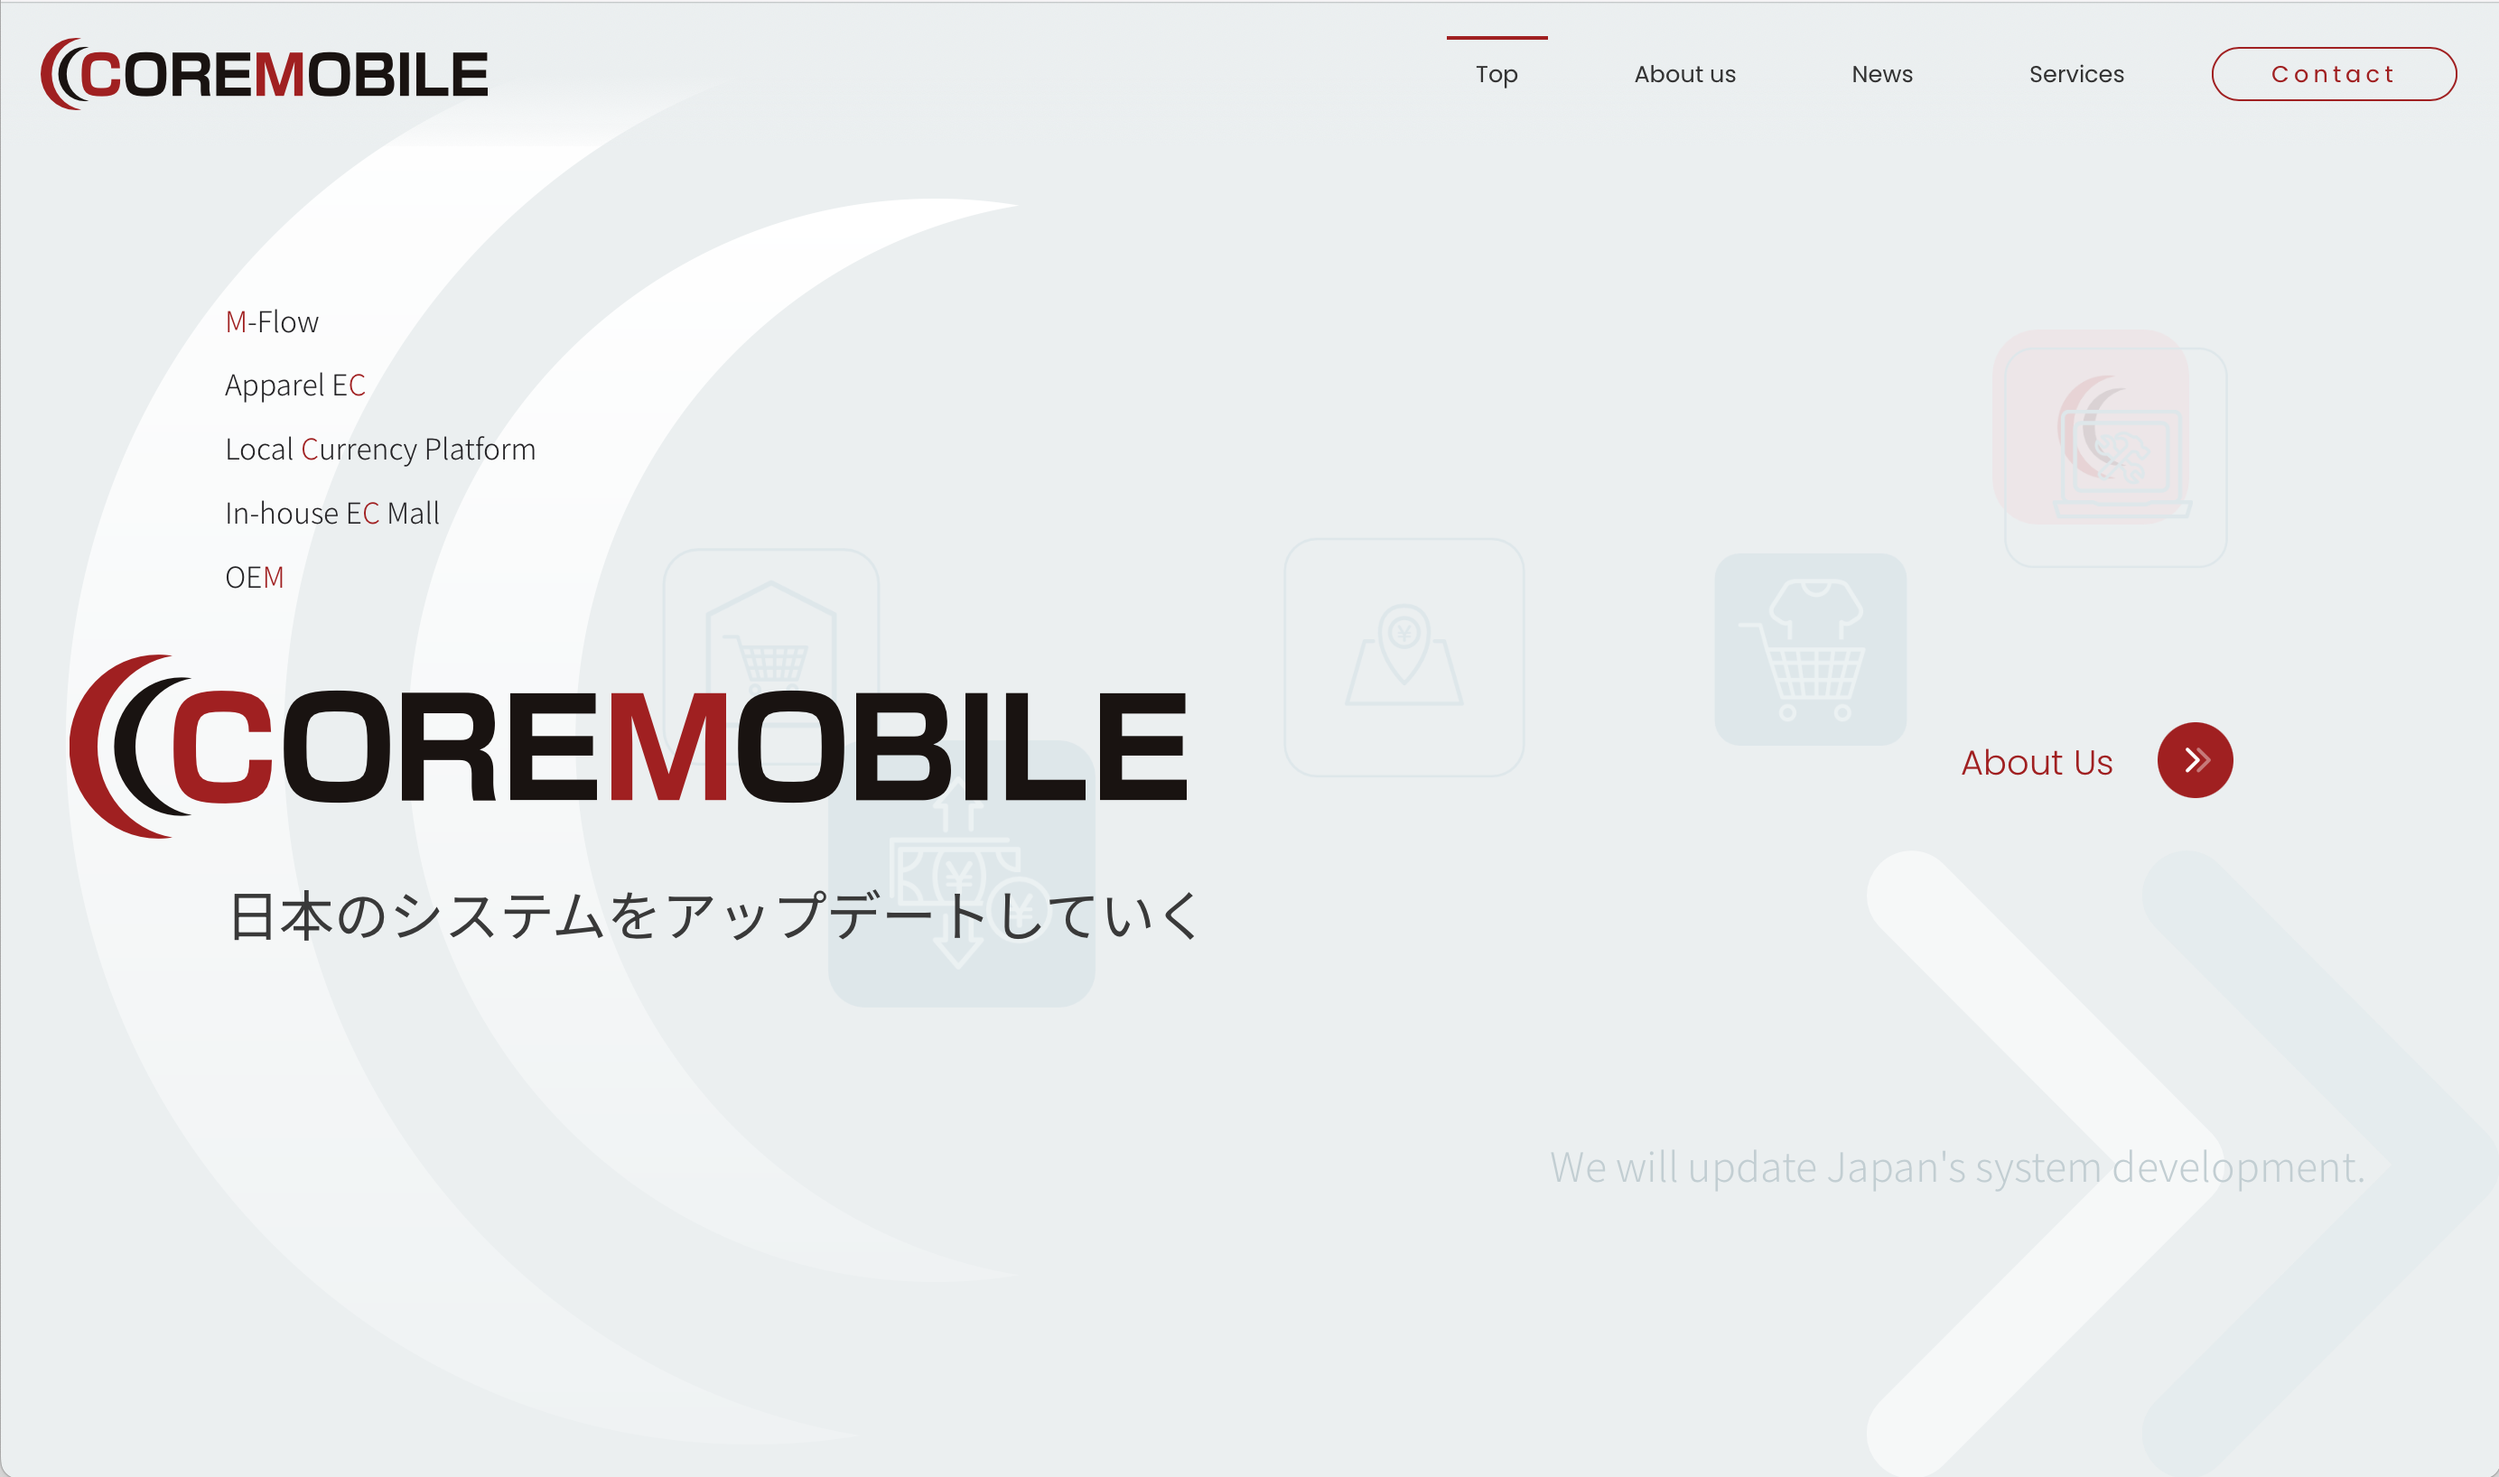
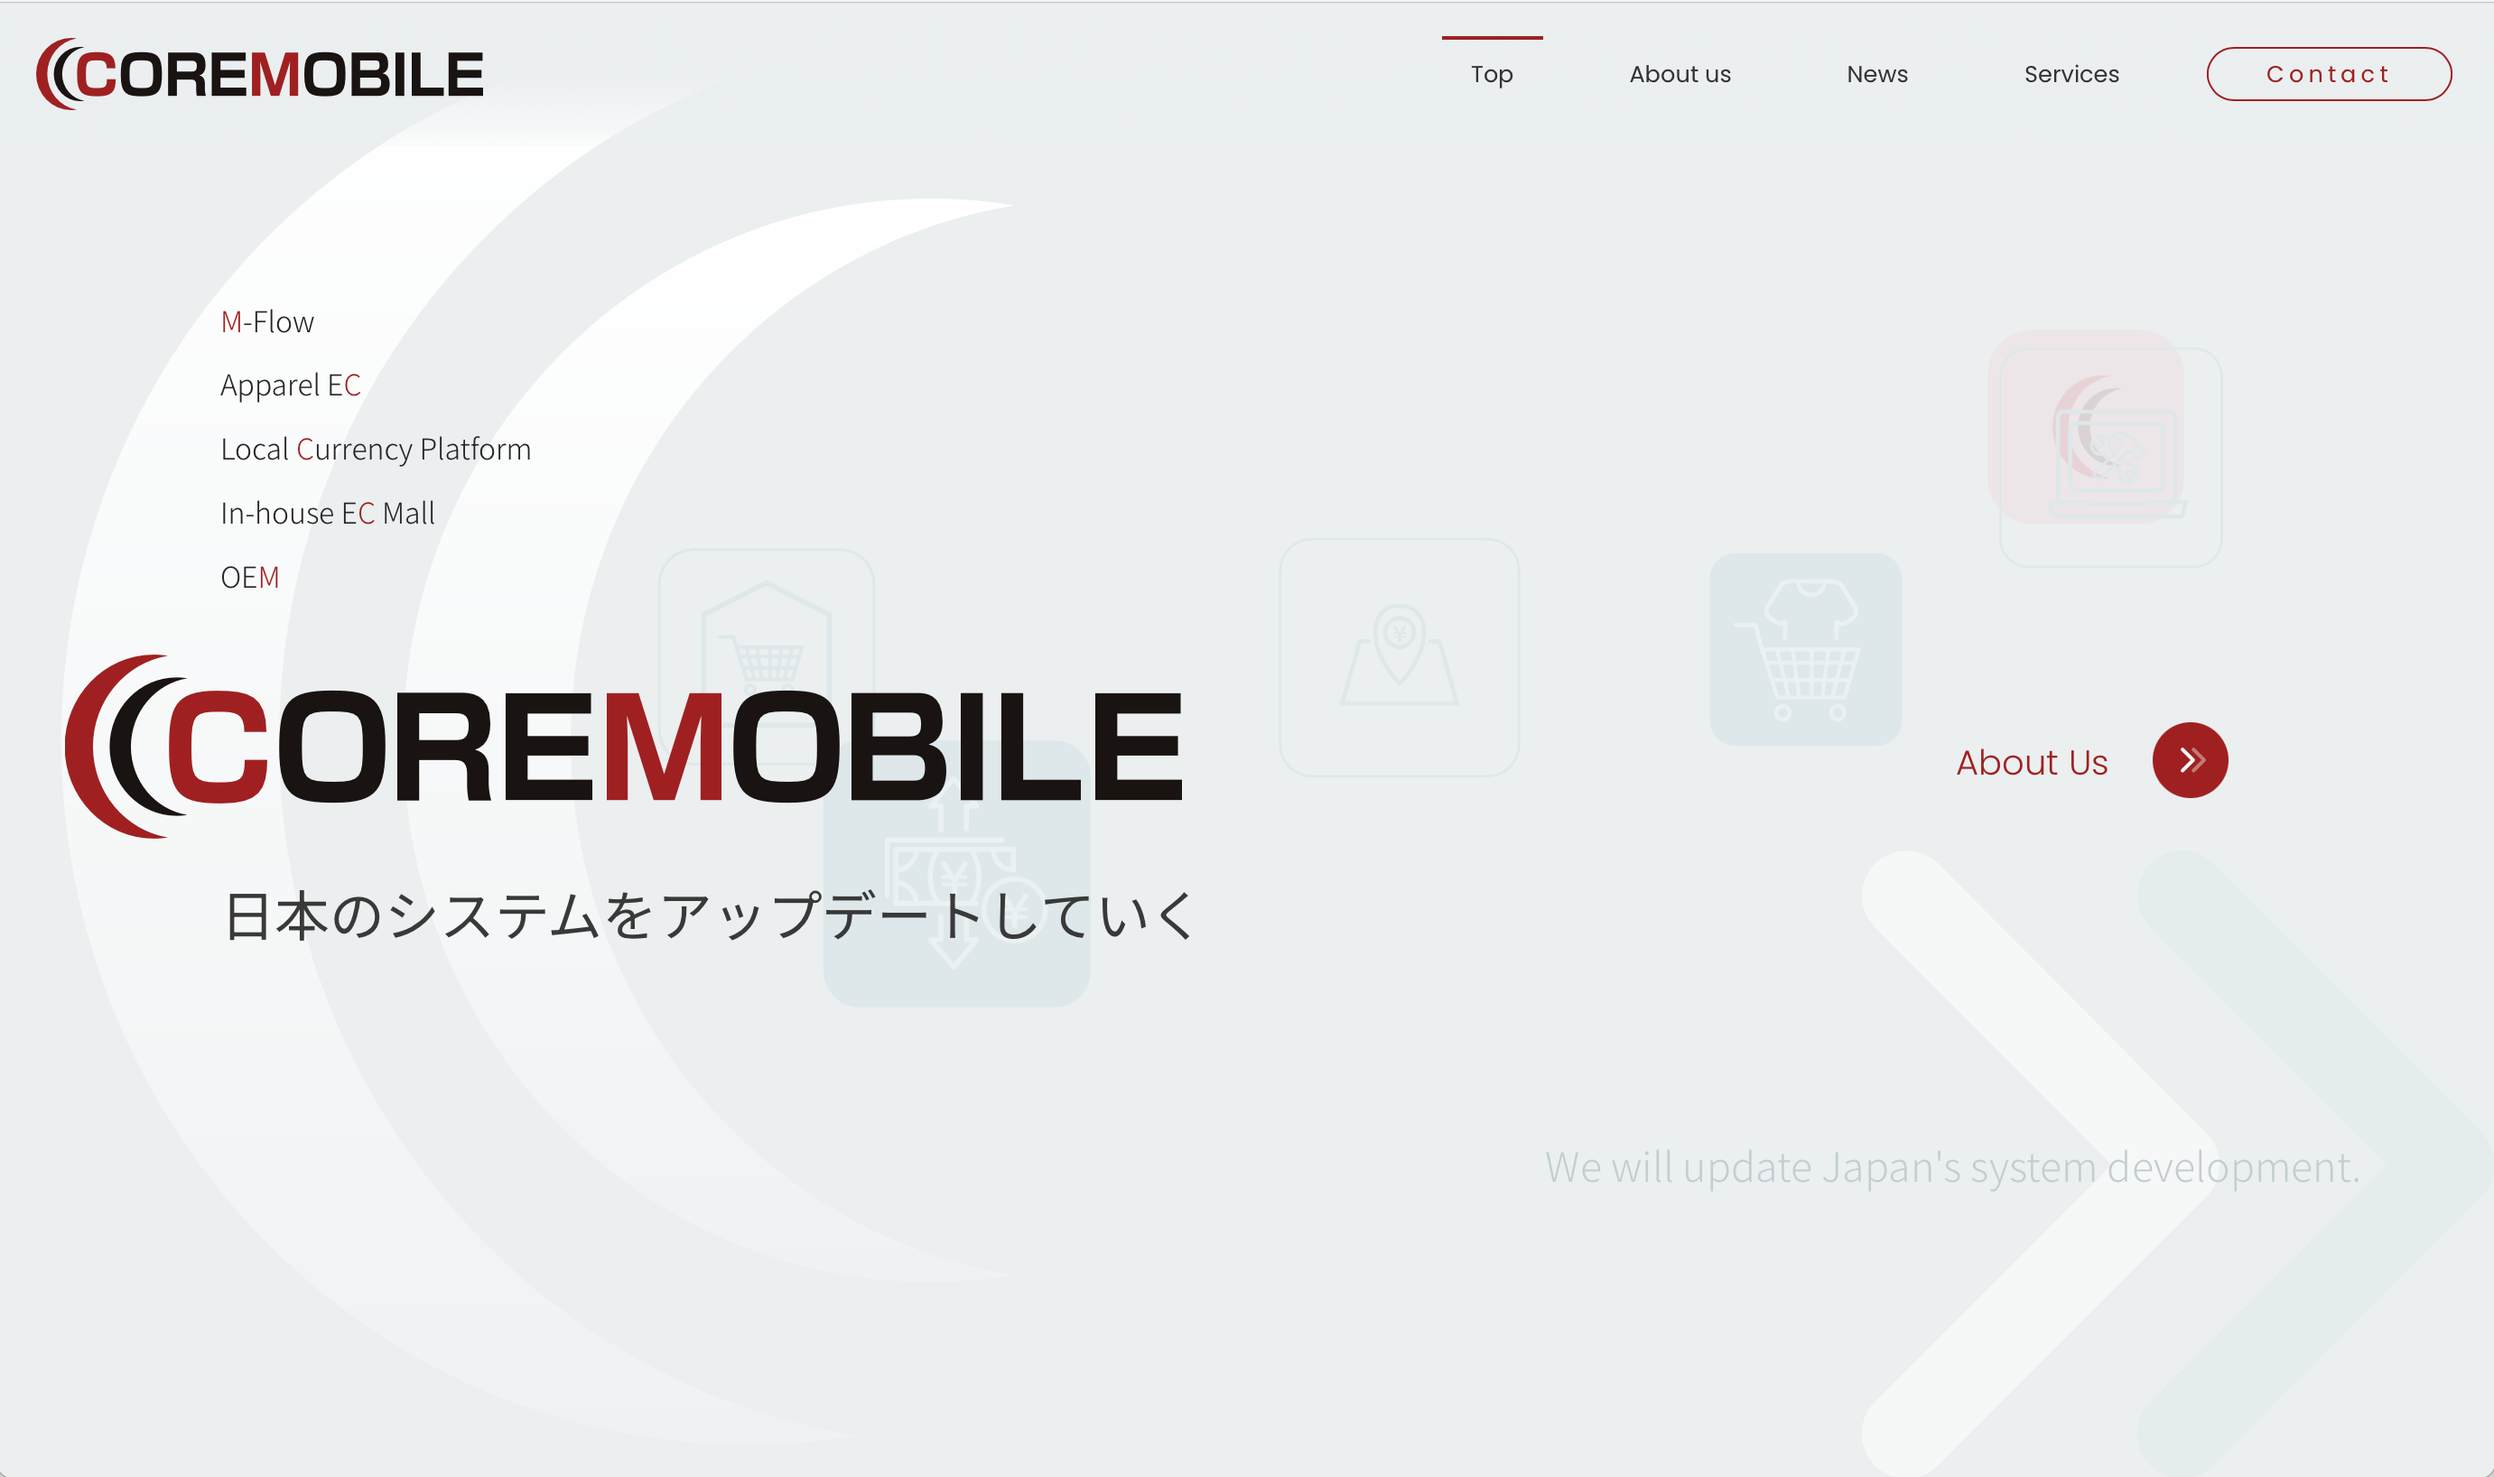
Update UI

diff --git a/index.html b/index.html
@@ -159,7 +159,7 @@
     </h2>
 
     <div class="projects">
-      <div class="project" id="lottery" popover data-random="-10deg 10deg" role="dialog" aria-modal="false"
+      <div class="project" id="lottery" popover data-random="-7deg 7deg" role="dialog" aria-modal="false"
         aria-labelledby="lottery-popover-title">
         <div class="project-info">
           <h4 id="lottery-popover-title">Form Lottery Pay</h4>
@@ -224,7 +224,7 @@
           </div>
         </div>
       </div>
-      <div class="project" id="cuuvel" popover data-random="-10deg 10deg" role="dialog" aria-modal="false"
+      <div class="project" id="cuuvel" popover data-random="-7deg 7deg" role="dialog" aria-modal="false"
         aria-labelledby="cuuvel-popover-title">
         <div class="project-info">
           <h4 id="cuuvel-popover-title">Cuuvel Dashboard</h4>
@@ -289,7 +289,7 @@
           </div>
         </div>
       </div>
-      <div class="project" id="ec-cube" popover data-random="-10deg 10deg" role="dialog" aria-modal="false"
+      <div class="project" id="ec-cube" popover data-random="-7deg 7deg" role="dialog" aria-modal="false"
         aria-labelledby="ec-cube-popover-title">
         <div class="project-info">
           <h4 id="ec-cube-popover-title">Ec-cube Plugins</h4>
@@ -341,7 +341,7 @@
           </div>
         </div>
       </div>
-      <div class="project" id="yomiuri" popover data-random="-10deg 10deg" role="dialog" aria-modal="false"
+      <div class="project" id="yomiuri" popover data-random="-7deg 7deg" role="dialog" aria-modal="false"
         aria-labelledby="yomiuri-popover-title">
         <div class="project-info">
           <h4 id="yomiuri-popover-title">Yomiuri Shimbun</h4>
@@ -393,7 +393,7 @@
           </div>
         </div>
       </div>
-      <div class="project" id="coremobile" popover data-random="-10deg 10deg" role="dialog" aria-modal="false"
+      <div class="project" id="coremobile" popover data-random="-7deg 7deg" role="dialog" aria-modal="false"
         aria-labelledby="coremobile-popover-title">
         <div class="project-info">
           <h4 id="coremobile-popover-title">CoreMobile</h4>
@@ -445,7 +445,7 @@
           </div>
         </div>
       </div>
-      <div class="project" id="united-arrow" popover data-random="-10deg 10deg" role="dialog" aria-modal="false"
+      <div class="project" id="united-arrow" popover data-random="-7deg 7deg" role="dialog" aria-modal="false"
         aria-labelledby="united-arrow-popover-title">
         <div class="project-info">
           <h4 id="united-arrow-popover-title">United Arrow</h4>
@@ -497,7 +497,7 @@
           </div>
         </div>
       </div>
-      <div class="project" id="inhouse" popover data-random="-10deg 10deg" role="dialog" aria-modal="false"
+      <div class="project" id="inhouse" popover data-random="-7deg 7deg" role="dialog" aria-modal="false"
         aria-labelledby="inhouse-popover-title">
         <div class="project-info">
           <h4 id="inhouse-popover-title">Inhouse Furniture</h4>

diff --git a/src/styles/project.css b/src/styles/project.css
@@ -1,6 +1,7 @@
 :where(.project) {
   --padding: clamp(.5rem, 3vw, 1.5rem);
   --duration: 1s;
+  --degree: var(--random);
 
   height: auto;
   max-width: auto;
@@ -30,9 +31,9 @@
   }
 }
 
-@supports (rotate: random(0deg, 10deg)) {
+/* @supports (rotate: random(0deg, 10deg)) {
   .project {
-    --degree: random(-10deg, 10deg);
+    --degree: random(-7deg, 7deg);
   }
 }
 
@@ -40,7 +41,7 @@
   .project {
     --degree: var(--random);
   }
-}
+} */
 
 :where(.browser) {
   --control: 10px;
@@ -65,7 +66,7 @@
     grid-template-columns: .5fr 1fr .5fr;
     justify-content: space-between;
     align-items: center;
-    padding-inline: 0.5rem;
+    padding-inline: 0.75rem;
 
     .controls {
       display: flex;
@@ -185,8 +186,10 @@
     right: 50%;
     top: 50%;
     translate: 50% -50%;
+    rotate: calc(var(--degree) * -1);
 
     display: none;
+    pointer-events: none;
     grid-template-columns: auto auto;
     align-items: center;
     padding: 0.2rem;
@@ -194,7 +197,10 @@
     background-color: var(--surface-3);
     border: 1px solid light-dark(white, var(--color-10));
     box-shadow: var(--shadow-1);
-    transition: scale .6s var(--ease-spring-2);
+    transition:
+      scale .6s var(--ease-spring-2),
+      pointer-events 0s linear;
+    transition-behavior: allow-discrete;
 
     color: var(--text-color);
     text-decoration: none;
@@ -230,6 +236,8 @@
     .logo-popover {
       display: grid;
       scale: 1;
+      transition-delay: 0s, .6s;
+      pointer-events: auto;
 
       @starting-style {
         scale: 0;
@@ -272,4 +280,3 @@
     }
   }
 } */
-

diff --git a/src/polyfills/random-css.ts b/src/polyfills/random-css.ts
@@ -2,10 +2,10 @@ const RANGE_PATTERN = /^\s*([^\s,]+)[\s,]+([^\s,]+)\s*$/
 const VALUE_PATTERN = /^(-?(?:\d+\.?\d*|\.\d+))(.*)$/
 const DEFAULT_RANDOM_VAR = '--random'
 const TARGET_VAR_ATTR = 'data-random-var'
-const HAS_NATIVE_RANDOM_CSS_SUPPORT =
-  typeof CSS !== 'undefined' &&
-  typeof CSS.supports === 'function' &&
-  CSS.supports('rotate: random(0deg, 10deg)')
+// const HAS_NATIVE_RANDOM_CSS_SUPPORT =
+//   typeof CSS !== 'undefined' &&
+//   typeof CSS.supports === 'function' &&
+//   CSS.supports('rotate: random(0deg, 10deg)')
 
 function parseCssValue(value: string) {
   const match = VALUE_PATTERN.exec(value)
@@ -42,11 +42,17 @@ function randomCssPolyfill() {
   }
 }
 
-if (!HAS_NATIVE_RANDOM_CSS_SUPPORT) {
-  console.log('random() CSS do not support in this browser.')
-  if (document.readyState === 'loading') {
-    document.addEventListener('DOMContentLoaded', randomCssPolyfill, { once: true })
-  } else {
-    randomCssPolyfill()
-  }
+if (document.readyState === 'loading') {
+  document.addEventListener('DOMContentLoaded', randomCssPolyfill, { once: true })
+} else {
+  randomCssPolyfill()
 }
+
+// if (!HAS_NATIVE_RANDOM_CSS_SUPPORT) {
+//   console.log('random() CSS do not support in this browser.')
+//   if (document.readyState === 'loading') {
+//     document.addEventListener('DOMContentLoaded', randomCssPolyfill, { once: true })
+//   } else {
+//     randomCssPolyfill()
+//   }
+// }

diff --git a/src/styles/main.css b/src/styles/main.css
@@ -9,9 +9,21 @@
   justify-content: space-between;
   align-items: center;
 
+  @media (orientation: portrait) {
+    position: relative;
+  }
+
   .intro-message {
     /* outline: 1px dotted hotpink; */
-    position: relative;
+    
+    @media (orientation: landscape) {
+      position: relative;
+
+      & > * {
+        position: relative;
+      }
+
+    }
 
     & > * {
       position: relative;
@@ -28,7 +40,7 @@
 
       bottom: 0;
       left: 50%;
-      translate: -50% 100%;
+      translate: -50% -40%;
 
       animation: ThreeDLoad 1.5s var(--ease-spring-3);
 
@@ -37,7 +49,7 @@
       /* @media (max-width: 48rem) {
         display: none;
       } */
-      @media (min-width: 48rem) {
+      @media (orientation: landscape) {
         right: 0;
         top: 50%;
         translate: 75% -50%;
